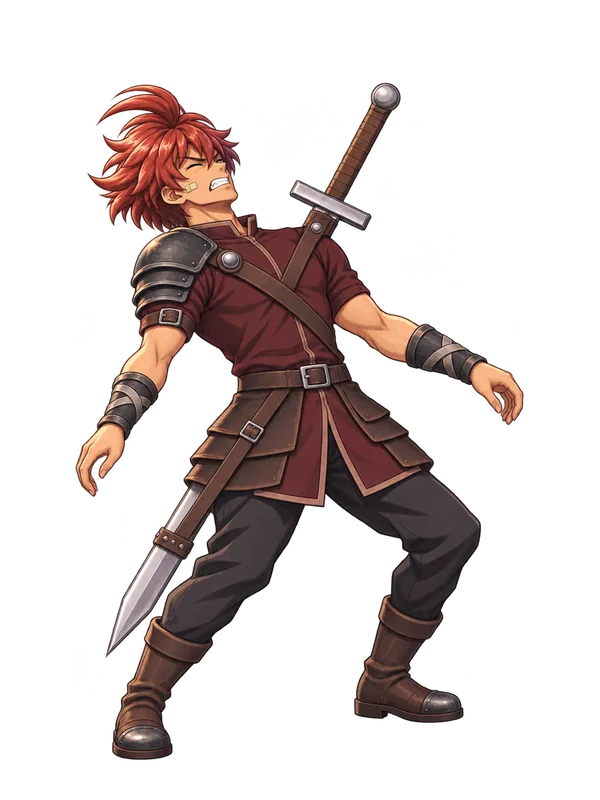
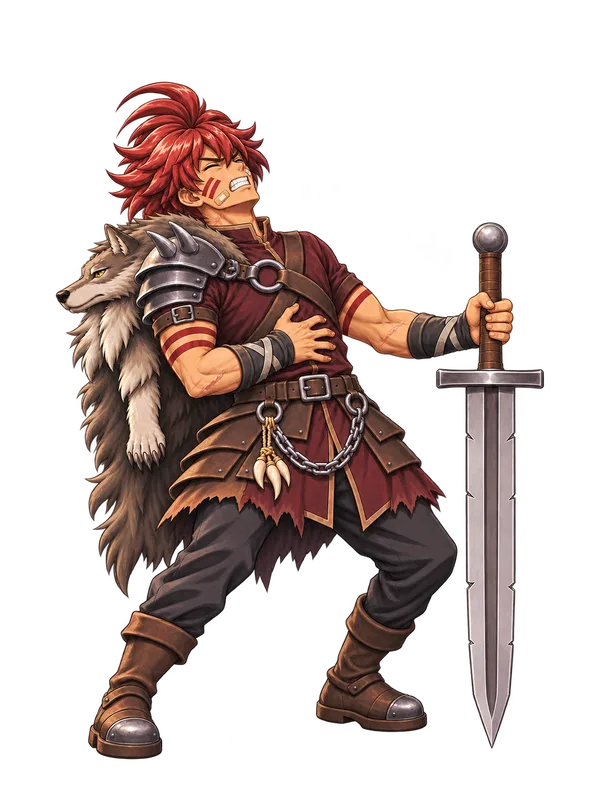
魔物與首領蓄力姿勢 43 張、狂戰士男版受傷圖
Claude-Session: https://claude.ai/code/session_014oWtzJimN2qi28cgaLB2Wn

diff --git a/index.html b/index.html
@@ -1858,7 +1858,7 @@ function vBattle(){const s=stats(),fx=B.fx||{},intro=B.intro,a=AREAS[RUN.area];B
   const foeFx=foeFx0+(()=>{const x=(B.pops||[]).slice(-4).map((p,i)=>`<span class="dmg pop p-${POPK[p.k]}" style="animation-delay:${(sk?1.1:.35)+i*.22}s;margin-left:${(i%2?1:-1)*(18+i*6)}px">-${p.d}<small>${p.k}</small></span>`).join('');B.pops=[];return x})();
   const meFx=(theirs?(fx.miss?'<span class="dmg miss">MISS</span>':fx.d>0?(fk?`<span class="dmg late ${fx.cr?'cr':''}">-${fx.d}</span>`:`<span class="dmg">-${fx.d}</span>`):fx.d===0?'<span class="dmg miss">擋下</span>':''):'')+(fx.heal?`<span class="dmg heal ${sk?'late':''}">+${fx.heal}</span>`:'');
   /* 動作依時間發生：先出手，命中瞬間才受傷／倒地，之後回到待機 */
-  const fB='mob_'+B.id,fIdle=h=>fB+(h<=0?'_lose':B.chg&&ARTSET&&ARTSET.has(fB+'_charge')?'_charge':h<30?'_low':''),mB=HK(),mIdle=h=>mB+(h<30?'_low':'');
+  const fB='mob_'+B.id,fIdle=h=>fB+(h<=0?'_lose':(B.chg||(B.next&&SKM[B.next]&&isDng(SKM[B.next])))&&ARTSET&&ARTSET.has(fB+'_charge')?'_charge':h<30?'_low':''),mB=HK(),mIdle=h=>mB+(h<30?'_low':'');
   const fHit=atk&&fx.d>0,mHit=theirs&&fx.d>0,tF=sk?950:250,tM=fk?950:250;
   const fKey0=theirs&&!fx.stun?fB+'_atk':fHit?fIdle(fp??100):B.hp<=0?fB+'_lose':fIdle(B.fhp);
   const mKey0=sk?mB+'_sk_'+fx.skill:atk?mB+'_atk':mHit?mIdle(pp??100):mIdle(B.php);
@@ -2532,6 +2532,7 @@ function loadCode(code){try{const [v,b,c]=code.trim().split('.');if(v!=='AO1')th
 
 /* ============ 公告與限時活動 ============ */
 const NEWS=[
+  {v:'11.4',d:'2026-11-21',t:'魔物蓄力姿勢',b:'全部魔物與首領新增「蓄力姿勢」：牠們準備放大招時會擺出預備動作並泛紅光，看到就該防禦或搶先打斷。'},
   {v:'11.3',d:'2026-11-21',t:'戰鬥演出再升級',b:'多段技能會一下一下跳出每段傷害與連段數；大傷害數字更大；灼燒、連擊、引爆等效果以標籤跳出；擊破魔物有「擊破」大字、首領登場有警示橫幅；HP 低於三成畫面邊緣泛紅；戰鬥背景會緩緩移動。'},
   {v:'11.2',d:'2026-11-21',t:'戰鬥表現強化',b:'爆擊與最後一擊會頓格並推近鏡頭；灼燒、中毒、荊棘、守護反擊、露娜等額外傷害改用不同顏色的數字跳出；魔物蓄力時全身泛紅光；奧義技能會出現角色頭像特寫。'},
   {v:'11.1',d:'2026-11-21',t:'狂戰士新造型',b:'狂戰士全套立繪重新設計：獸皮披肩、紅色戰紋、尖刺肩甲與缺口巨劍，更有野性；另修正多個職業站姿。'},
@@ -2673,7 +2674,7 @@ function scaleFoe(){if(!B||B.id==='shadow')return;{const ar=RUN?RUN.area:0,bs=B.
 const BTRAIT={iron:{n:'鋼皮',d:'沒有暈眩時受到的傷害 -35%',tip:'震擊流、控場'},undying:{n:'不死',d:'每回合回復 5% HP；灼燒或中毒時無法再生',tip:'烈焰流、毒'},ward:{n:'魔障',d:'魔法傷害 -40%；被爆擊後魔障破除 2 回合',tip:'物理、疾風流、高爆擊'},enrage:{n:'狂怒',d:'第 8 回合起攻擊 +80%',tip:'速攻、連擊流'},spike:{n:'尖刺',d:'每次受到攻擊反彈 20% 傷害',tip:'吸血流、先機護盾、守護'}};
 const weekNo=()=>Math.floor((Date.now()/864e5+3)/7);
 const weekTrait=id=>{const ks=Object.keys(BTRAIT),i=Math.max(0,AREAS.findIndex(a=>a.boss===id));return ks[(weekNo()+i)%ks.length]};
-function startBattle(id,kind,nAdds){const F=mkFoe(id,kind),m=F.m,bs=F.kind==='boss';try{preload(['','_atk','_hurt','_low','_lose'].map(x=>'mob_'+id+x))}catch(e){}
+function startBattle(id,kind,nAdds){const F=mkFoe(id,kind),m=F.m,bs=F.kind==='boss';try{preload(['','_atk','_hurt','_low','_lose','_charge'].filter(x=>x!=='_charge'||(ARTSET&&ARTSET.has('mob_'+id+'_charge'))).map(x=>'mob_'+id+x))}catch(e){}
   const pool=RUN?AREAS[RUN.area].mobs:[id],adds=[];for(let i=0;i<(nAdds||0);i++){const f=mkFoe(pick(pool),'');f.hp=f.max=Math.round(f.max*.75);adds.push(f)}
   preload([...['','_hurt','_low','_win','_lose','_atk','_skill','_cast'].map(x=>HK()+x),...(id==='shadow'?[]:['','_hurt','_low','_win','_lose'].map(x=>'mob_'+id+x)),...adds.map(f=>'mob_'+f.id),'battle_'+(AREAS.find(a=>a.boss===id||a.mobs.includes(id))||{id:'plain'}).id]);
   allyAuto();const ally=id==='shadow'?null:mkAlly();if(ally)ally.hp=ally.max;

diff --git a/sw.js b/sw.js
@@ -1,4 +1,4 @@
-const C='ao-art-v29';
+const C='ao-art-v30';
 self.addEventListener('install',e=>self.skipWaiting());
 self.addEventListener('activate',e=>e.waitUntil(caches.keys().then(ks=>Promise.all(ks.filter(k=>k.startsWith('ao-art')&&k!==C).map(k=>caches.delete(k)))).then(()=>self.clients.claim())));
 const get=(req,n)=>fetch(req).catch(err=>n>0?new Promise(r=>setTimeout(r,800)).then(()=>get(req,n-1)):Promise.reject(err));
